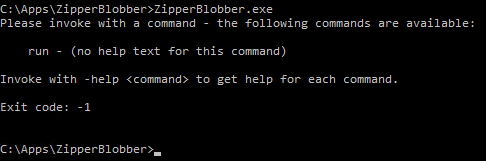
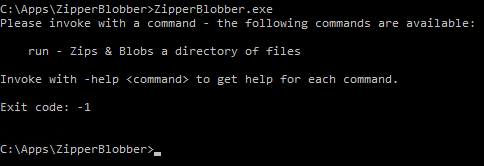
readme + more

diff --git a/ZipperBlobber/Commands/RunCommand.cs b/ZipperBlobber/Commands/RunCommand.cs
@@ -10,6 +10,7 @@ using Serilog;
 namespace ZipperBlobber.Commands
 {
     [Command("run")]
+    [Description("Zips & Blobs a directory of files")]
     public class RunCommand : ICommand
     {
         [Parameter("storage", allowConnectionString: true)]

diff --git a/README.md b/README.md
@@ -1,0 +1,51 @@
+# ZipperBlobber
+
+CLI application that can ZIP & BLOB a directory of files.
+
+Originally built for easily storing a MongoDB dump in a blob in Azure, but it
+can probably be used for other things as well.
+
+## Example
+
+Imagine that you have made a `mongodump` somewhere, e.g. in `C:\temp\dump`, and
+now you would like to ZIP & BLOB the contents of that directory.
+
+First you download & build ZipperBlobber. Then you run ZipperBlobber now by typing in
+
+    > zipperblobber.exe
+
+and it should look somewhat like this:
+
+![stuff/zb1.png]()
+
+which means that it has a single command: `run`. Let's invoke it with the `run`
+command:
+
+    > zipperblobber run
+
+which should result in a message saying that it needs three paramters:
+
+![stuff/zb2.png]()
+
+The `CONN` string next to the `storage` parameter means that it can pick up the
+parameter from the `<connectionStrings>` section of the application configuration
+file.
+
+So if you try and edit the application configuration file `zipperblobber.exe.config` 
+and set the appsetting `storage` to the connection string of the storage account that
+you would like to use, running the `run` command again should now complain that
+only two parameters are now missing:
+
+    > zipperblobber run
+
+![stuff/zb3.png]()
+
+On my machine I had a MongoDB database dump in `D:\mongodumps\fm-events`, so I now
+invoke the tool to ZIP & BLOB that directory and save it into a container called
+`fm-events` in my storage account:
+
+    > zipperblobber run -dir D:\mongodumps\fm-events -container fm-events
+
+which resulted in this:
+
+![stuff/zb4.png]()
